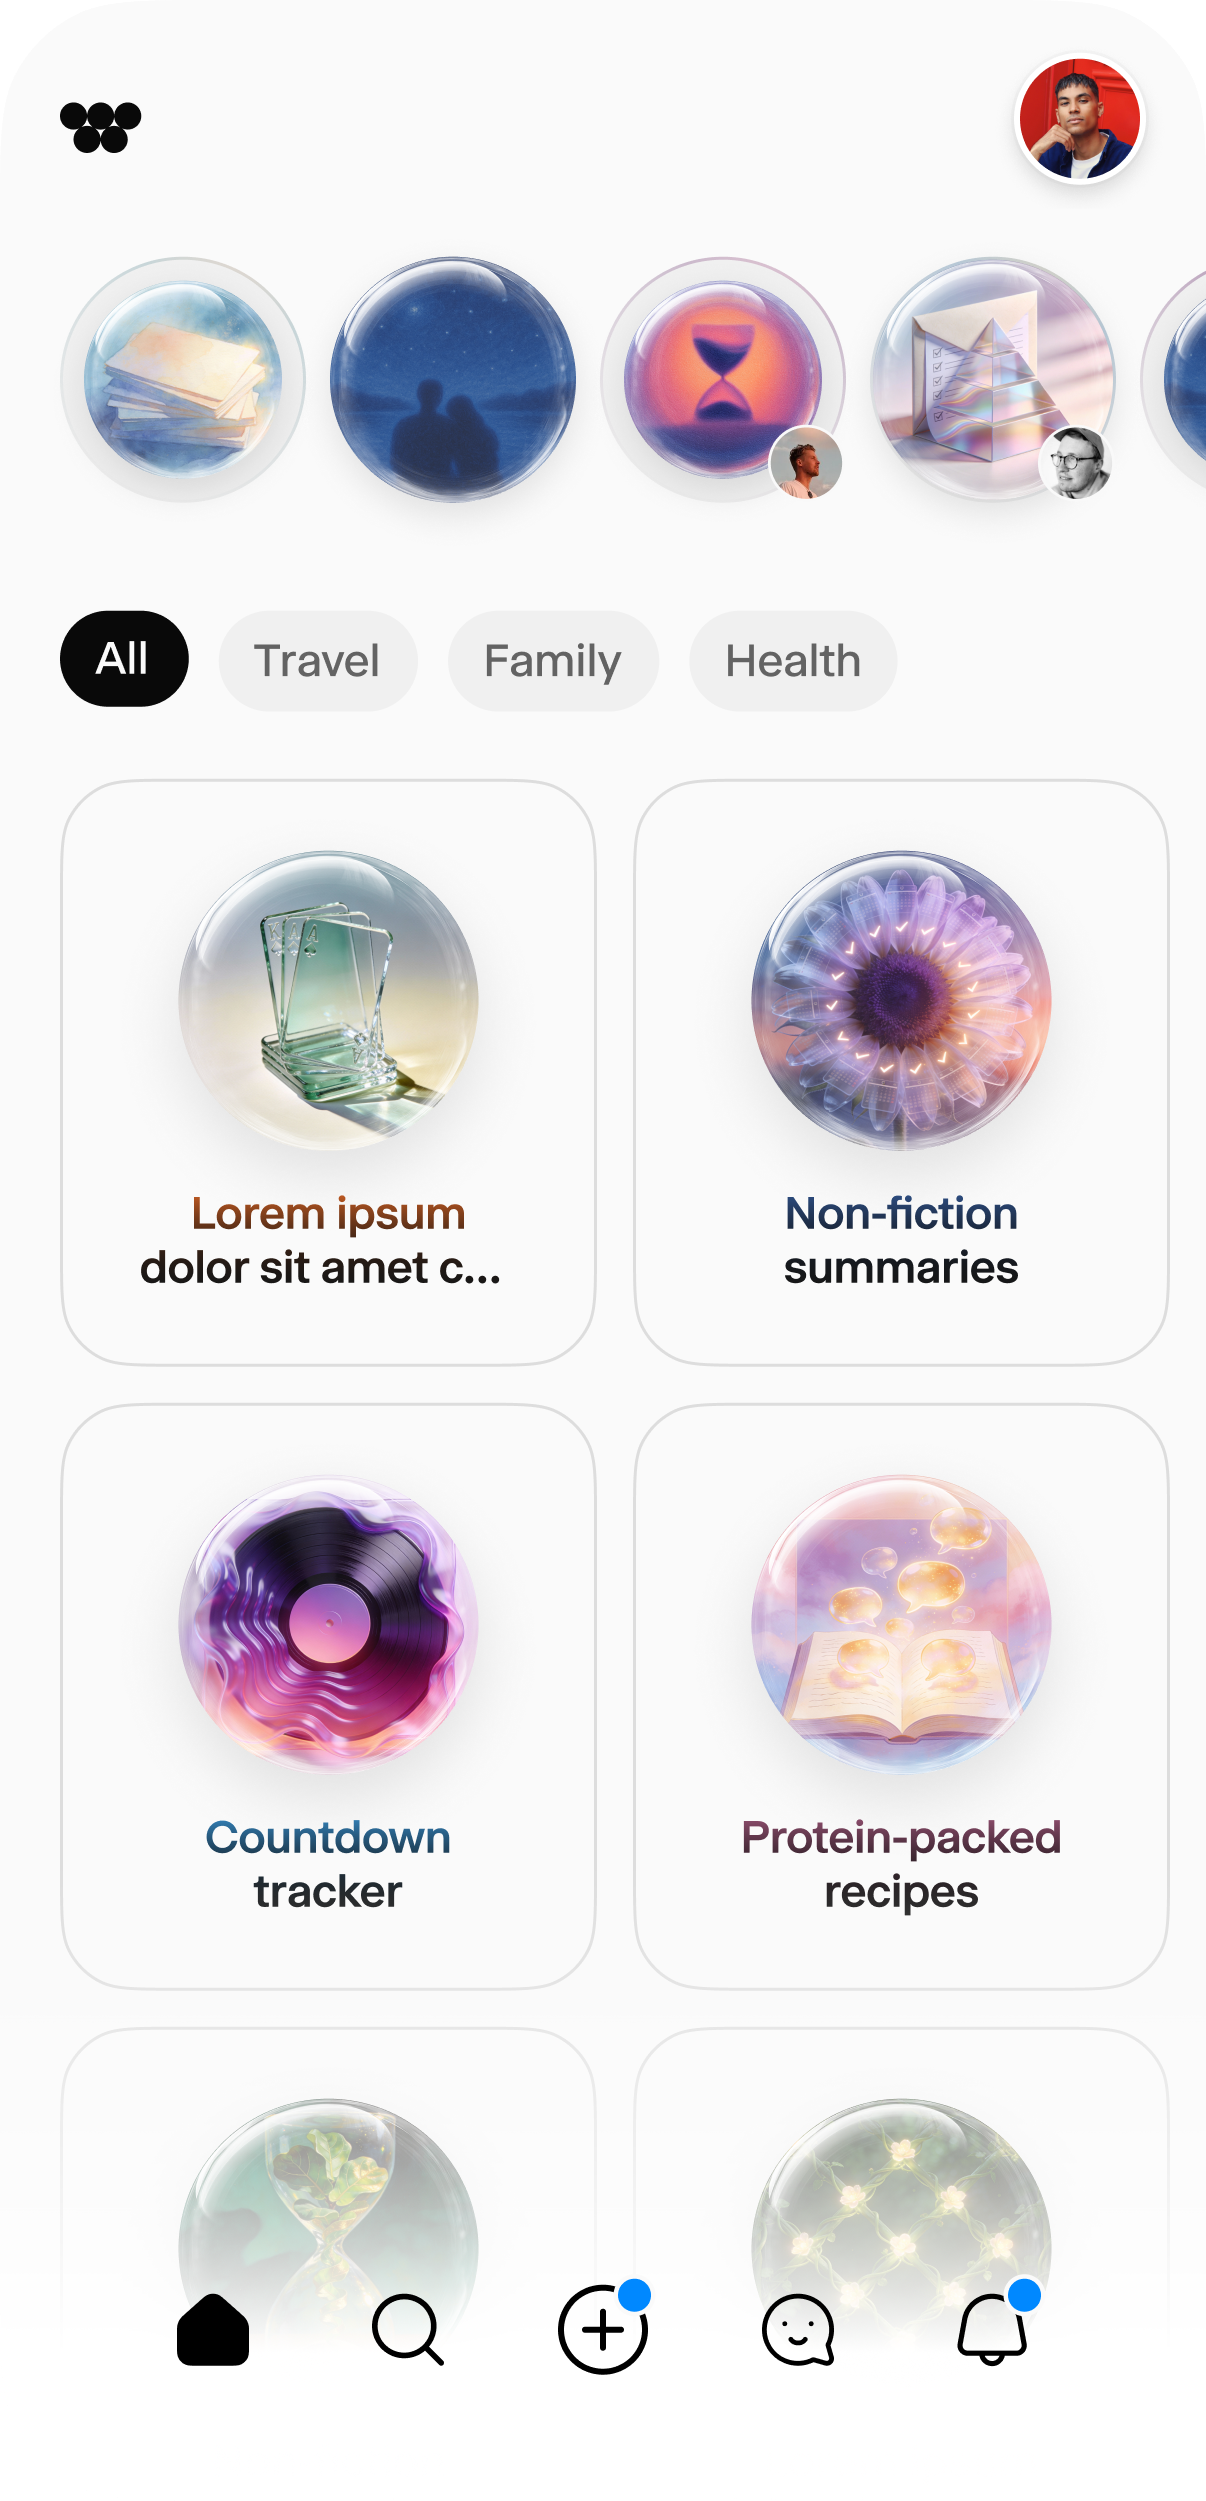
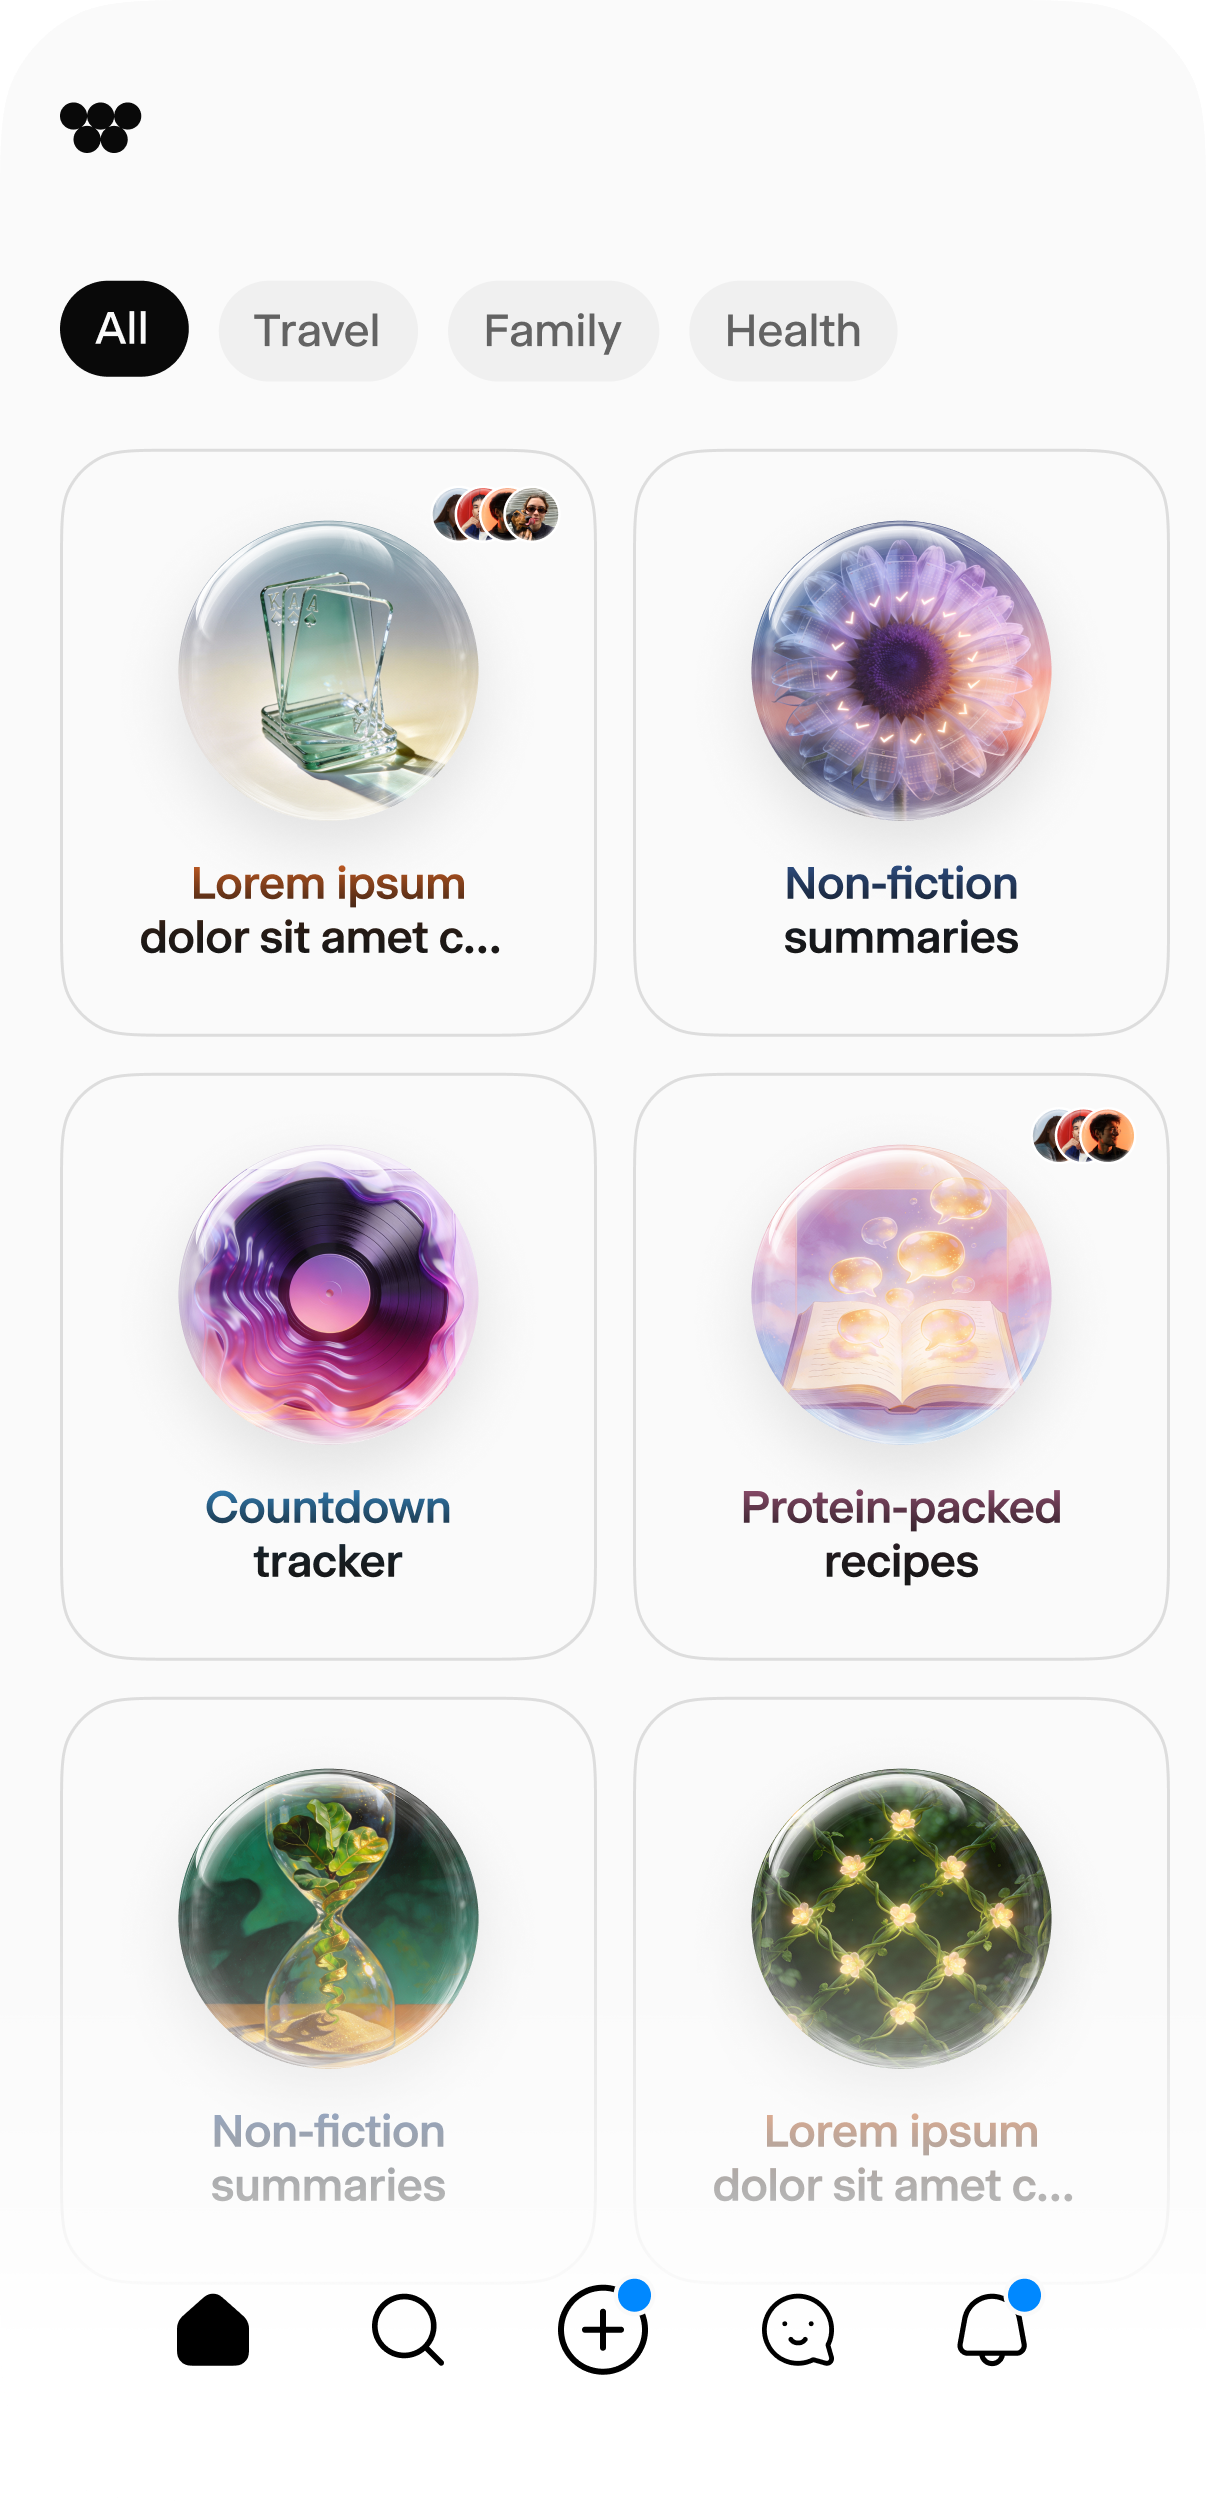
Swap phone dashboards to new 3-screen set + heavier facepile stroke
- Replace public/dash-1.png and dash-2.png, add dash-3.png — the new
  designs drop the baked profile glyph from the top-right, so the
  carousel now cycles through three distinct filter/orb arrangements
  (Fitness/Henry & Linda → Travel/Family/Health → Games/Family/Health).
- PHONE_SOURCES wired to ['dash-1', 'dash-2', 'dash-3'].
- Persona overlay repositioned to mirror the Wabi logo (top: 3.1%,
  right: 5.6%, width: 7.2%) since the new screens leave the top-right
  empty. Bumped its outer halo (2px white stroke + softer shadow).
- Facepile white stroke doubled 1px → 2px.
- Facepile drop shadow updated y:32/blur:60 → y:40/blur:80 for a
  softer, taller anchor below the cluster.

diff --git a/src/App.tsx b/src/App.tsx
@@ -1563,8 +1563,8 @@ function App() {
                     // away from "ur".
                     marginLeft: '0.16em',
                     pointerEvents: 'auto',
-                    // Soft drop shadow below the pile (y=32, blur=60)
-                    filter: 'drop-shadow(0 32px 60px rgba(0,0,0,0.1))',
+                    // Soft drop shadow below the pile (y=40, blur=80)
+                    filter: 'drop-shadow(0 40px 80px rgba(0,0,0,0.1))',
                   }}
                 >
                   {ids.map((i) => {
@@ -1587,8 +1587,8 @@ function App() {
                           height: '0.88em',
                           borderRadius: '50%',
                           overflow: 'hidden',
-                          // Thin CSS-only stroke (avatars themselves are clean)
-                          boxShadow: '0 0 0 1px #fff',
+                          // 2px CSS-only white stroke around each clean avatar.
+                          boxShadow: '0 0 0 2px #fff',
                           zIndex: 10 - slot,
                           transformOrigin: 'center',
                           transform: 'translateY(var(--shift, 0px)) scale(var(--scale-active, 1))',
@@ -1692,7 +1692,7 @@ function App() {
 
       {/* Phone carousel — three dashboards, click to cycle which is in front */}
       {!showcaseMode && (() => {
-        const PHONE_SOURCES = ['/dash-1.png', '/dash-2.png', '/dash-2.png'];
+        const PHONE_SOURCES = ['/dash-1.png', '/dash-2.png', '/dash-3.png'];
         // Slot 0 = front, 1 = back-right, 2 = back-left
         const slotForIdentity = (id: number) => (id - activePhone + 3) % 3;
         const slotTransform = (slot: number): React.CSSProperties => {
@@ -1769,9 +1769,10 @@ function App() {
               );
             })}
 
-            {/* Persona avatar overlay — sits in the dashboard's top-right
-                "profile" slot. Tracks the currently-hovered facepile avatar,
-                falling back to whichever phone is in front. */}
+            {/* Persona avatar overlay — sits in the empty top-right area of
+                each new dashboard (mirrors the Wabi logo's top-left position).
+                Tracks the currently-hovered facepile avatar, falling back to
+                whichever phone is in front. */}
             {(() => {
               const fallbackId = (activePhone % 4) + 1;
               const personaId = hoveredFaceId ?? fallbackId;
@@ -1783,18 +1784,17 @@ function App() {
                   draggable={false}
                   style={{
                     position: 'absolute',
-                    // Matches the profile glyph baked into the dashboard PNGs.
-                    top: '4.2%',
-                    right: '6.4%',
-                    width: '6.6%',
+                    // Mirrors the Wabi logo's position on the dashboard PNGs.
+                    top: '3.1%',
+                    right: '5.6%',
+                    width: '7.2%',
                     aspectRatio: '1',
                     borderRadius: '50%',
                     objectFit: 'cover',
                     pointerEvents: 'none',
                     zIndex: 4,
-                    boxShadow: '0 0 0 2px #fff, 0 4px 10px rgba(0,0,0,0.10)',
+                    boxShadow: '0 0 0 2px #fff, 0 6px 14px rgba(0,0,0,0.12)',
                     transition: 'opacity 0.3s ease',
-                    // Fade in once the front phone is settled
                     opacity: 1,
                   }}
                 />